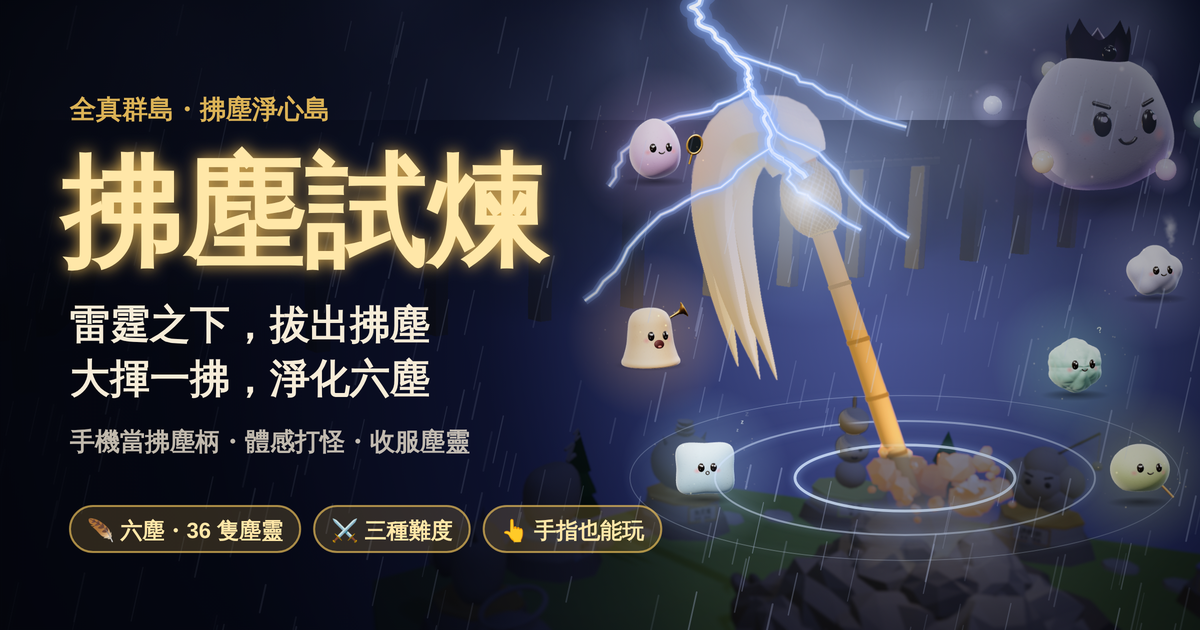
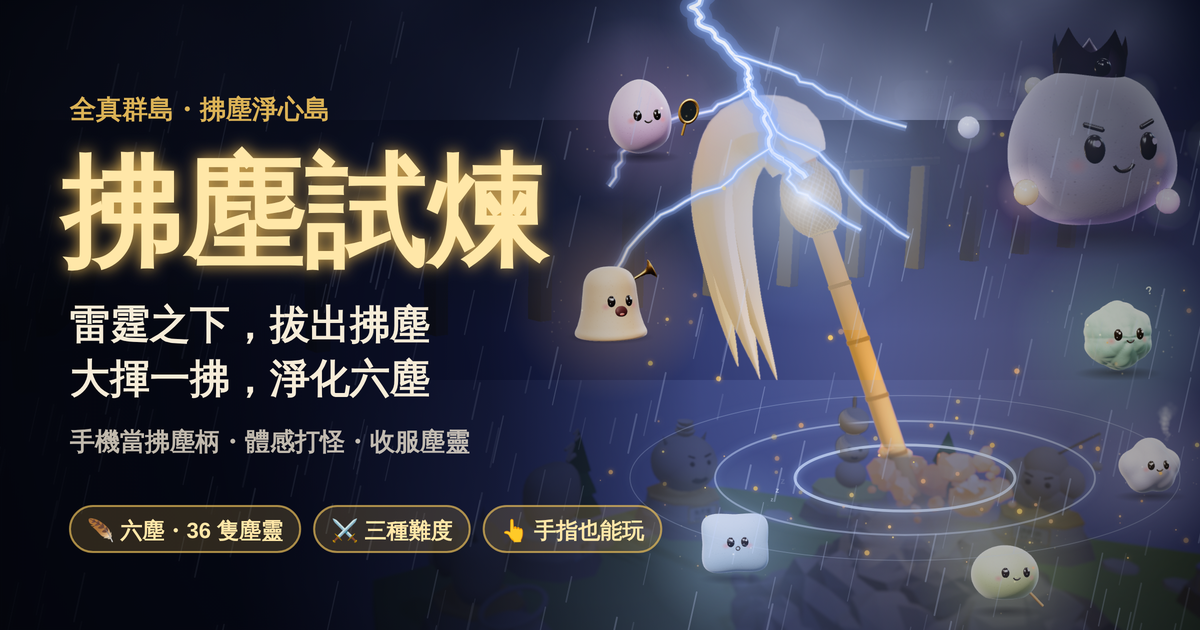
群島 v261111.11：預覽圖版面平衡、補白
Claude-Session: https://claude.ai/code/session_01CYjxtAJEbe8aNJZsdY8jB5

diff --git a/islands/fuchen-game/index.html b/islands/fuchen-game/index.html
@@ -19,8 +19,8 @@
 <meta property="og:title" content="大揮一拂，淨化六塵｜拂塵試煉・全真群島">
 <meta property="og:description" content="手機就是拂塵柄：看清符印、聽到「揮」就整隻手臂大揮一拂，把六塵的塵靈淨化、收進淨心錄。三種難度，沒有動作感測也能用手指畫。">
 <meta property="og:url" content="https://steven4dev.github.io/yiguandao-2027-course/islands/fuchen-game/">
-<meta property="og:image" content="https://steven4dev.github.io/yiguandao-2027-course/islands/fuchen-game/og-fuchen.png?v=11">
-<meta property="og:image:secure_url" content="https://steven4dev.github.io/yiguandao-2027-course/islands/fuchen-game/og-fuchen.png?v=11">
+<meta property="og:image" content="https://steven4dev.github.io/yiguandao-2027-course/islands/fuchen-game/og-fuchen.png?v=12">
+<meta property="og:image:secure_url" content="https://steven4dev.github.io/yiguandao-2027-course/islands/fuchen-game/og-fuchen.png?v=12">
 <meta property="og:image:type" content="image/png">
 <meta property="og:image:width" content="1200">
 <meta property="og:image:height" content="630">
@@ -255,7 +255,7 @@ body[data-phase="count"] .hud,body[data-phase="count"] .bottom{opacity:.3}
 
 <script>
 'use strict';
-const VERSION = 'v261111.09';
+const VERSION = 'v261111.10';
 const D2R = Math.PI / 180, R2D = 180 / Math.PI;
 const $ = s => document.querySelector(s);
 $('#ver').textContent = '拂塵試煉 ' + VERSION;

diff --git a/islands/index.html b/islands/index.html
@@ -696,7 +696,7 @@ body.fcT-hide .card,body.fcT-hide .dock,body.fcT-hide #navPop,body.fcT-hide .tag
   <p class="count hits-count" id="hitsLine">👣 已經有 <img id="hitsImg" alt="累計造訪人次" height="18" src="https://hits.sh/steven4dev.github.io/yiguandao-2027-course/islands.svg?style=flat-square&amp;label=%E4%BA%BA%E6%AC%A1&amp;color=d9a43a&amp;labelColor=3a3f5a" onerror="this.parentNode.hidden = true"> 來逛過群島</p>
   <div class="boards"><a class="board" href="https://forms.gle/PG7yAsyz1r4unXXZ8" target="_blank" rel="noopener">🛶 我要登島</a><button class="board board-visit" id="visitBtn" type="button">👀 我要觀摩</button></div>
   <span class="status" id="status" data-state="backup" role="button" tabindex="0" title="點一下重新讀取"><i></i><span id="statusText">讀取資料中…</span></span>
-  <span class="ver">v261111.10</span>
+  <span class="ver">v261111.11</span>
   </div></div>
 </div>
 

diff --git a/islands/CHANGELOG.md b/islands/CHANGELOG.md
@@ -3,6 +3,9 @@
 網頁左上角品牌卡最下面的淡色小字就是版本編號，格式跟褪下仙衣一樣是 `v年月日.當天第幾版`，例如 `v261025.01` 代表 2026/10/25 的第 1 版。
 打開網頁看到的編號和這裡最上面的一筆相同，就代表已經更新成功；如果還是舊編號，等幾分鐘再重新整理。
 
+## v261111.11
+- 🖼 預覽圖版面平衡：六塵靈放大並分散到拂塵四周（左上、左中、左下、右中、右下、底部），無明塵王放大在右上，不再擠成一邊；原本沒有物件的底部與中間空白，補上閃電照亮的貼地薄霧與從碎石飄升的餘燼。預覽圖網址 `?v=` 加到 12。
+
 ## v261111.10
 - 🖼 預覽圖的拂塵不再筆直：在 3D 裡讓拂塵真的斜過來（像剛被雷擊鬆動、被拔起一點），白馬尾順著傾斜往左甩出弧度，更有動感也更自然；閃電落點、漣漪、碎石的位置都跟著重新對位。預覽圖網址 `?v=` 加到 11。
 
